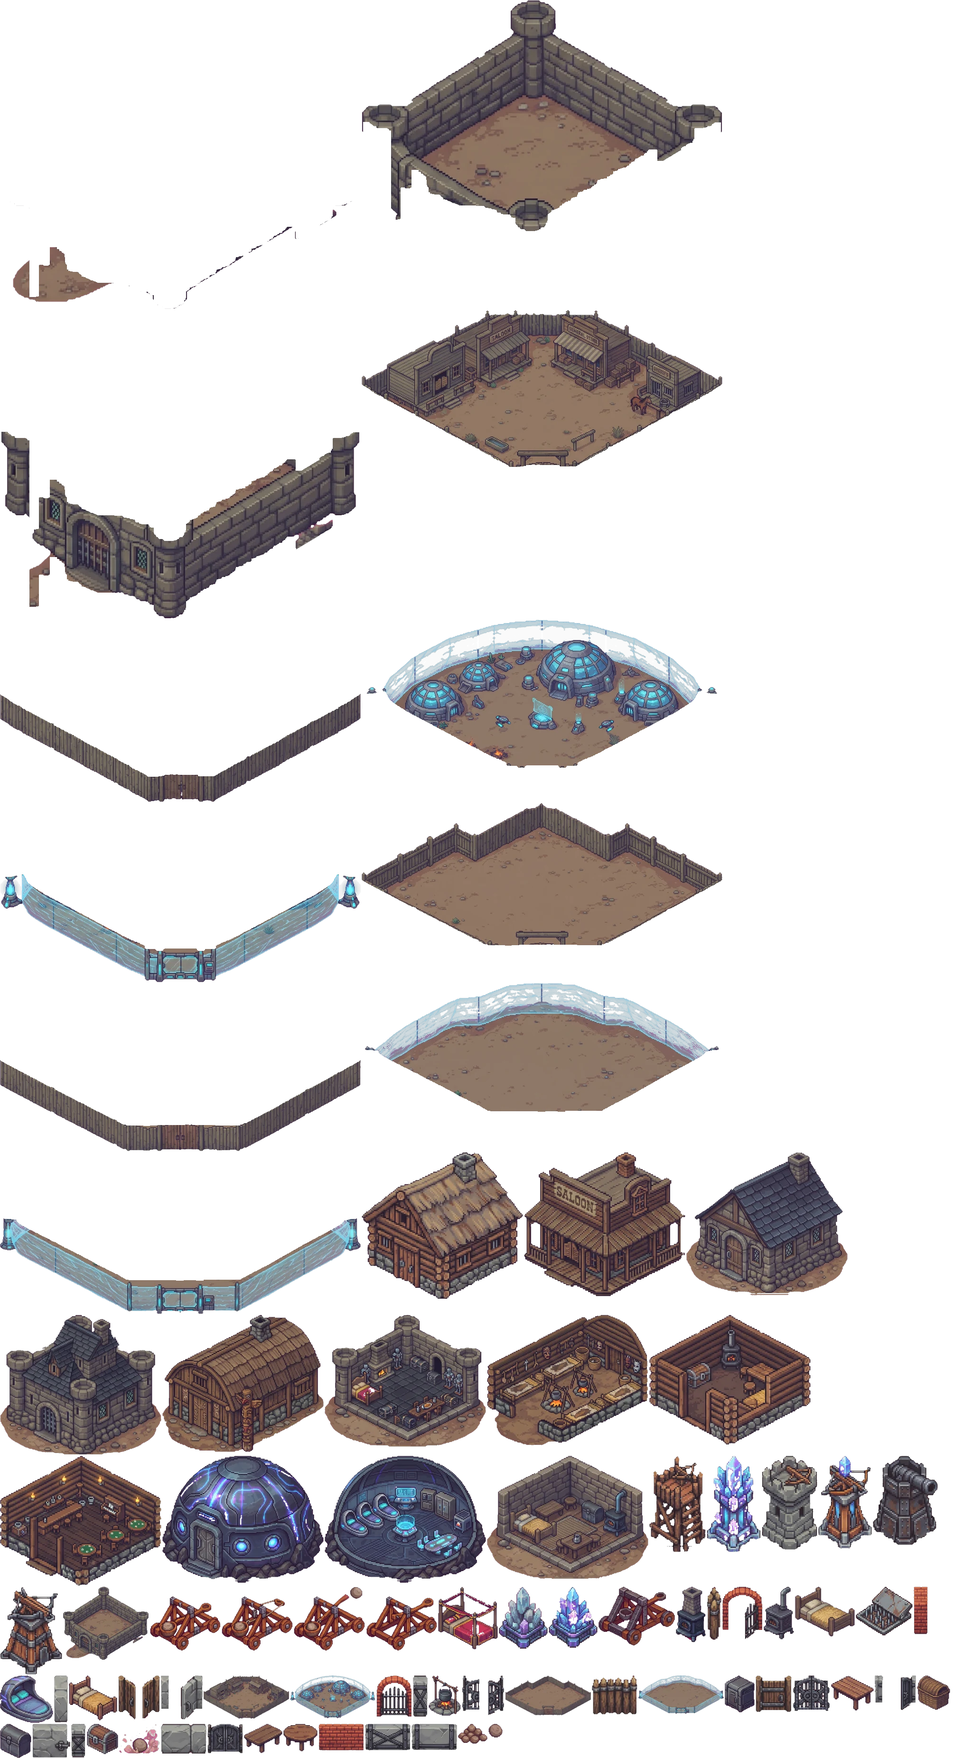
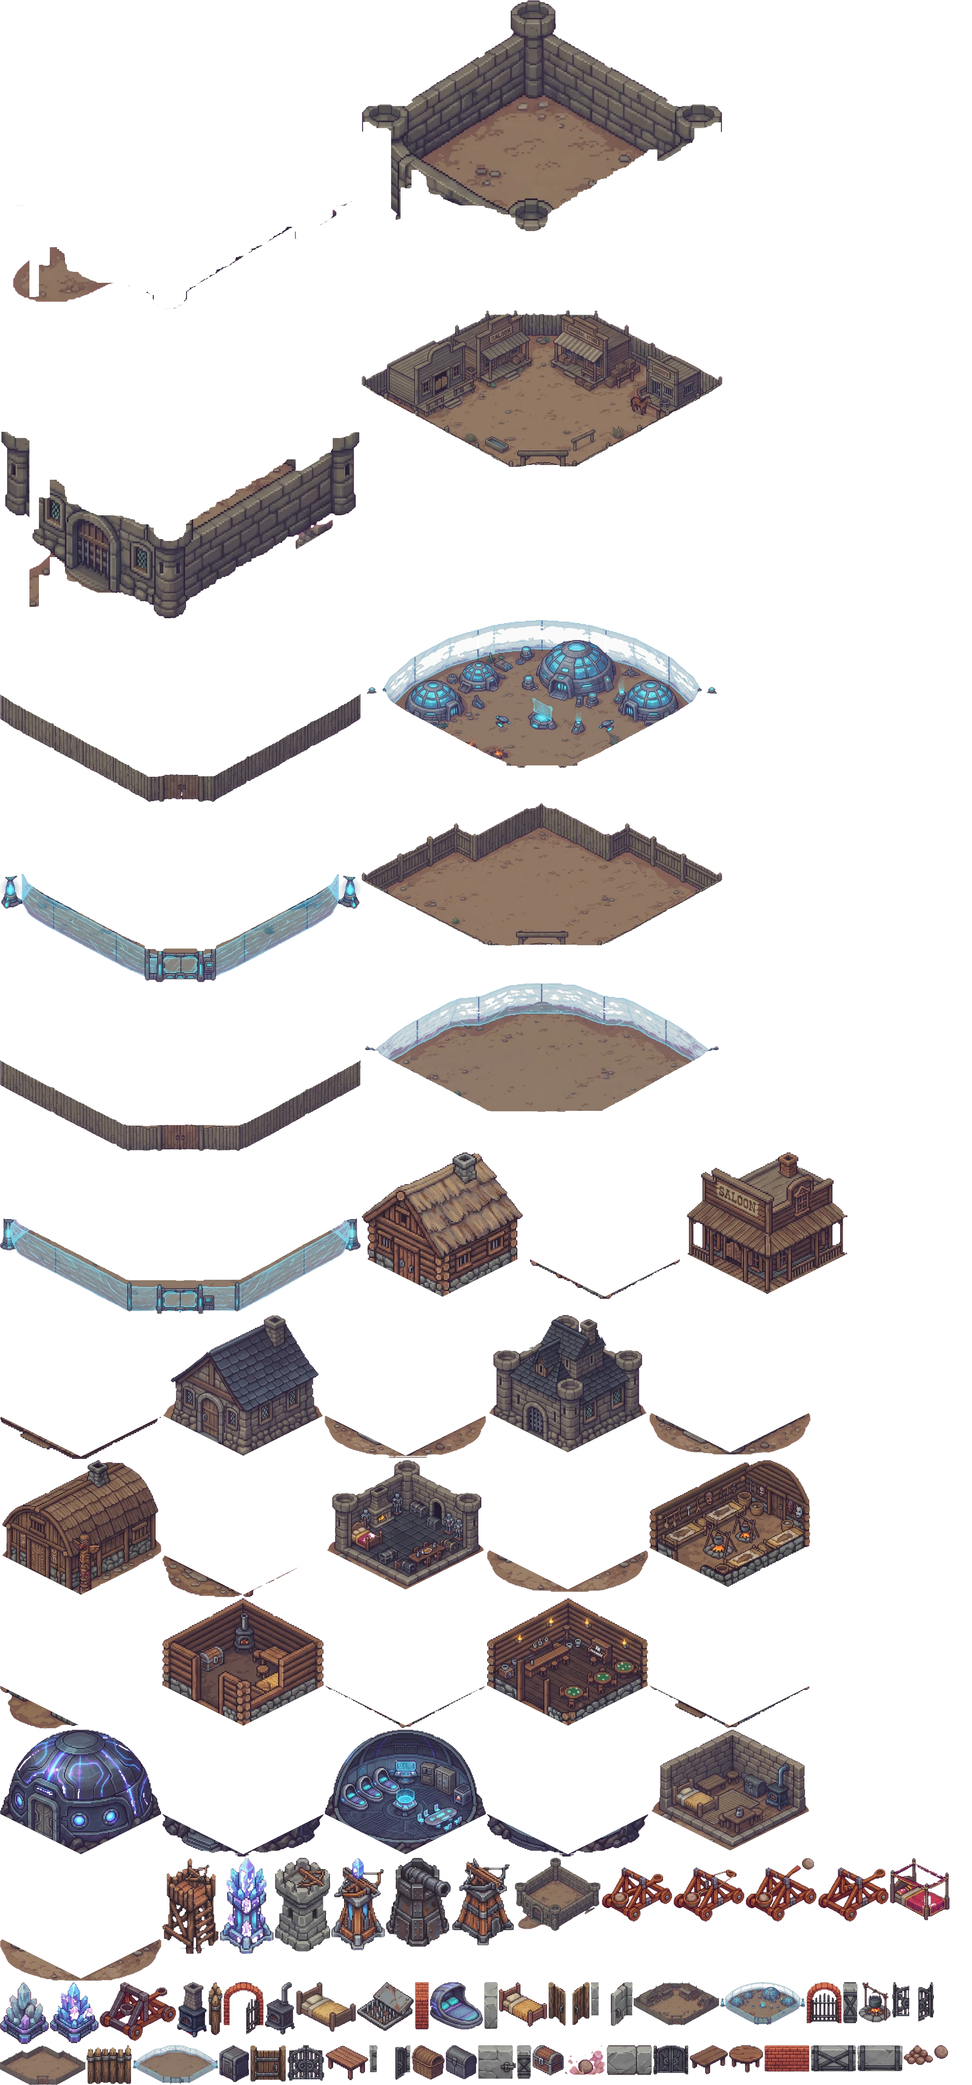
Add files via upload

diff --git a/game.js b/game.js
@@ -565,6 +565,7 @@
   }
   function canStand(px, py, z, r, quem) {
     const pts = [[px - r, py - r], [px + r, py - r], [px - r, py + r], [px + r, py + r]];
+    if (quem === 'jogador' && interior) { for (const [x, y] of pts) if (insideOf(x, y, 'casa') !== interior || shapeHit(interior, x, y, true) === 'solid') return false; return true; }
     for (const [x, y] of pts) if (!walkable(tileAt(Math.floor(x), Math.floor(y), z), z)) return false;
     if (z === 0 && S.builds.length) for (const [x, y] of pts) if (buildBlocks(x, y, quem !== 'jogador')) return false;
     return true;
@@ -653,13 +654,13 @@
     let best = null;
     for (const b of S.builds) {
       const d = BUILDS[b.k];
-      if (d.tipo !== 'casa' && d.tipo !== 'forte') continue;
+      if (d.tipo !== 'forte') continue;   // casas: botão Entrar
       if (shapeHit(b, px, py) !== 'solid' && shapeHit(b, p.x + DIRS[p.dir][0] * 0.45, p.y + DIRS[p.dir][1] * 0.45) !== 'solid') continue;
       if (!best || d.w < BUILDS[best.k].w) best = b;   // casa dentro do forte: vale a casa
     }
     if (!best) for (const b of S.builds) {   // parado na própria porta, empurrando: também vale
       const d = BUILDS[b.k];
-      if (d.tipo !== 'casa' && d.tipo !== 'forte') continue;
+      if (d.tipo !== 'forte') continue;
       const [qx, qy] = doorPoint(b);
       if (Math.hypot(qx - p.x, qy - p.y) < 1.6 && (!best || d.w < BUILDS[best.k].w)) best = b;
     }
@@ -949,7 +950,7 @@
     for (const m of S.mobs) m.aggro = false;
     p.x = S.home.x; p.y = S.home.y; p.z = 0;
     if (!walkable(tileAt(Math.floor(p.x), Math.floor(p.y), 0), 0)) { p.x = SPAWN.x + 0.5; p.y = SPAWN.y + 0.5; }
-    S.hp = HP_MAX; invulnTil = performance.now() + 4000; homing = null;
+    S.hp = HP_MAX; invulnTil = performance.now() + 4000; homing = null; interior = null;
     for (let k = 0; k < 20; k++) waterTick();
     invDirty = true; toast(msg, 'warn', 5500); save();
   }
@@ -1008,7 +1009,7 @@
       if (m.burn > now) { m.hp -= m.burnDps * dt; if (m.hp <= 0) { killMob(m, k); continue; } }
       if (Math.hypot(m.x - p.x, m.y - p.y) > 90) { S.mobs.splice(k, 1); continue; }   // longe demais: some (volta quando chegar perto)
       const dist = Math.hypot(m.x - p.x, m.y - p.y), same = m.z === p.z && S.hp > 0 && now > invulnTil;
-      const inHouse = !!insideOf(p.x, p.y, 'casa');
+      const inHouse = !!interior || !!insideOf(p.x, p.y, 'casa');
       const fromHome = Math.hypot(m.x - m.hx, m.y - m.hy);
       if (!m.aggro && same && !inHouse && dist < def.ve) { m.aggro = true; if (m.kind !== 'bicho') sfx('golpe'); }
       if (m.aggro && (!same || inHouse || fromHome > def.segue || dist > def.segue + 3)) m.aggro = false;
@@ -1027,8 +1028,7 @@
         m.moving = false;
         if (m.atk <= 0) {
           m.atk = def.cad; m.swing = now; hurt(def.dano, m);
-          if (m.kind === 'saqueador') fxAnim(['fx_corte_1', 'fx_corte_2'], (m.x + S.p.x) / 2, (m.y + S.p.y) / 2 - 0.3, m.z, 0.9, 200, Math.atan2(S.p.y - m.y, S.p.x - m.x) - Math.PI / 4);
-          else { fxAnim(['fx_impacto'], S.p.x, S.p.y + 0.2, m.z, 1.4, 380); shake(220, tp * 0.08); }
+          if (m.kind !== 'saqueador') { fxAnim(['fx_impacto'], S.p.x, S.p.y + 0.2, m.z, 1.4, 380); shake(220, tp * 0.08); }
         }
       } else if (L > 0.1) {
         const st = Math.min(L, sp * dt), nx = m.x + dx / L * st, ny = m.y + dy / L * st;
@@ -1047,7 +1047,7 @@
     m.hp -= n; m.flash = now + 120; m.hitT = now; m.aggro = true;
     if (opt.burn) { m.burn = now + 4000; m.burnDps = 4; }
     const hitFx = arma === 'cetro' ? ['fx_magia_hit_0', 'fx_magia_hit_1', 'fx_magia_hit_2'] : arma === 'arco' ? ['fx_lascas'] : ['fx_faisca_0', 'fx_faisca_1', 'fx_faisca_2'];
-    fxAnim(hitFx, m.x, m.y - 0.6, m.z, arma === 'cetro' ? 1.2 : 0.9, 330);
+    if (arma !== 'espada') fxAnim(hitFx, m.x, m.y - 0.6, m.z, arma === 'cetro' ? 1.2 : 0.9, 330);
     if (m.kind !== 'bicho' || arma !== 'cetro') {   // empurrão de meio bloco para longe de você
       const dx = m.x - S.p.x, dy = m.y - S.p.y, L = Math.hypot(dx, dy) || 1, k = m.kind === 'chefe' || m.kind === 'bicho' ? 0.25 : 0.5;
       const nx = m.x + dx / L * k, ny = m.y + dy / L * k;
@@ -1108,8 +1108,6 @@
       if (near) { damageMob(mm, dano, 'espada'); acertou = true; }
     }
     // corte em meia-lua na direção do golpe, na cor do nível
-    const corte = lv === 0 ? ['fx_corte_0', 'fx_corte_1', 'fx_corte_2'] : [['', 'fx_corte_laranja', 'fx_corte_roxo', 'fx_corte_dourado', 'fx_corte_dourado'][lv]];
-    fxAnim(corte, fx, fy - 0.2, S.p.z, (lv >= 3 ? 1.6 : lv >= 2 ? 1.35 : 1.1), 300, DIR_ANG[S.p.dir] - Math.PI / 4, S.p.dir === 2);
     if (lv >= 2) effects.push({ ring: raio, x: fx, y: fy, z: S.p.z, t0: performance.now(), dur: 260, cor: WLV_COR[lv] });
     return acertou || !!m;
   }
@@ -1697,7 +1695,7 @@
       addBuild(c); sfx('construir');
       for (const [jk, ox, oy] of d.junto || []) addBuild({ k: jk, x: c.x + ox, y: c.y + oy });
       toast(`${d.nome}: pronto`, 'gold');
-      if (d.tipo === 'casa') hint('casa', 'Para entrar ou sair, é só andar contra a parede. Para mudar de lugar: Construir.');
+      if (d.tipo === 'casa') hint('casa', 'Chegue perto da porta e toque em Entrar. Para mudar de lugar: Construir.');
     }
     if (!(S.kit[k] > 0)) S.sel = { k: 'muro', m: 0 };
     invDirty = true; save();
@@ -1822,7 +1820,11 @@
     const { x, y, z } = target();
     const npc = npcInFront(x, y);
     if (npc) { actHeld = false; showSheet('sheet-shop', npc); return; }
-    const door = tool !== 'muro' && doorAction();
+    if (tool !== 'muro' && !interior && z === 0) {   // Usar de frente para a casa: entra
+      const hb = houseNear();
+      if (hb && shapeHit(hb, x + 0.5, y + 0.5)) { actHeld = false; enterHouse(hb); return; }
+    }
+    const door = tool !== 'muro' && !interior && doorAction();
     if (door) { actHeld = false; door(); return; }
     const chest = tool !== 'muro' && campChest(x, y);
     if (chest) {
@@ -1975,6 +1977,7 @@
   function layerName(z) { return z === 0 ? 'Superfície' : `Camada ${z}${z >= 4 ? ' · mina profunda' : ''}`; }
 
   function upDown() {
+    if (interior) { toast('Saia da casa para cavar', 'warn'); return; }
     const p = S.p, x = Math.floor(p.x), y = Math.floor(p.y), z = p.z;
     if (z > 0 && tileAt(x, y, z - 1) === T.HOLE) {
       p.z--; centerPlayer(); toast(layerName(p.z)); return;
@@ -2034,7 +2037,7 @@
       homing = null;
       let { x, y } = S.home;
       if (!walkable(tileAt(Math.floor(x), Math.floor(y), 0), 0)) { x = SPAWN.x + 0.5; y = SPAWN.y + 0.5; }
-      p.x = x; p.y = y; p.z = 0;
+      p.x = x; p.y = y; p.z = 0; interior = null;
       S.homeReadyAt = S.time + HOME_COOLDOWN;
       for (let k = 0; k < 20; k++) waterTick();   // enche a água em volta da casa
       toast('Em casa', 'leaf');
@@ -2427,7 +2430,7 @@
   })();
   function artRect(name) { return art && ATLAS[name]; }
   // Segundo atlas: muros, torres, casas, fortalezas e móveis (tools/build_structures.py)
-  const ATLAS2 = /*ATLAS2_MAP*/{"forte_muralha_chao":[0,0,760,651],"forte_muralha_fundo":[762,0,760,651],"forte_muralha_frente":[0,653,760,651],"forte_forte_cidade_fundo":[762,653,760,384],"forte_forte_cidade_frente":[0,1306,760,384],"forte_colonia_fundo":[762,1306,760,378],"forte_colonia_frente":[0,1692,760,378],"forte_forte_fundo":[762,1692,760,354],"forte_forte_frente":[0,2072,760,354],"forte_campo_fundo":[762,2072,760,341],"forte_campo_frente":[0,2428,760,341],"casa_cabana":[762,2428,340,310],"casa_cabana_chao":[1104,2428,340,310],"casa_saloon":[1446,2428,340,304],"casa_saloon_chao":[0,2771,340,304],"casa_pedra":[342,2771,340,302],"casa_pedra_chao":[684,2771,340,302],"casa_castelo":[1026,2771,340,295],"casa_castelo_chao":[1368,2771,340,295],"casa_tribal":[0,3077,340,289],"casa_tribal_chao":[342,3077,340,289],"casa_castelo_dentro":[684,3077,340,278],"casa_castelo_dentro_chao":[1026,3077,340,278],"casa_tribal_dentro":[1368,3077,340,275],"casa_tribal_dentro_chao":[0,3368,340,275],"casa_cabana_dentro":[342,3368,340,274],"casa_saloon_dentro":[684,3368,340,274],"casa_saloon_dentro_chao":[1026,3368,340,274],"casa_domo":[1368,3368,340,268],"casa_domo_chao":[0,3645,340,268],"casa_domo_dentro":[342,3645,340,268],"casa_domo_dentro_chao":[684,3645,340,268],"casa_pedra_dentro":[1026,3645,340,260],"casa_pedra_dentro_chao":[1368,3645,340,260],"torre_madeira":[1710,3645,119,203],"torre_cristal":[1831,3645,114,203],"torre_pedra":[0,3915,117,198],"torre_balista_cristal":[119,3915,113,196],"torre_canhao":[234,3915,137,188],"torre_balista":[373,3915,131,185],"forte_muralha":[506,3915,180,154],"catapulta_0":[688,3915,150,135],"catapulta_1":[840,3915,150,135],"catapulta_2":[992,3915,150,135],"catapulta_3":[1144,3915,150,135],"movel_cama_dossel":[1296,3915,126,132],"cristal_claro":[1424,3915,103,131],"cristal_roxo":[1529,3915,103,129],"catapulta_ferro":[1634,3915,161,124],"movel_lareira":[1797,3915,63,117],"muro_madeira_v":[1862,3915,31,112],"muro_tijolo_aberto":[1895,3915,85,111],"movel_fogao":[1982,3915,64,111],"movel_cama_casal":[0,4115,126,105],"espinhos":[128,4115,120,103],"muro_tijolo_v":[250,4115,30,100],"movel_capsula":[282,4115,112,100],"muro_pedra_v":[396,4115,29,99],"movel_cama":[427,4115,102,95],"muro_madeira_aberto":[531,4115,88,93],"muro_pedra_aberto":[621,4115,88,93],"forte_forte_cidade":[711,4115,180,91],"forte_colonia":[893,4115,180,90],"muro_tijolo_portao":[1075,4115,75,87],"muro_fortaleza_v":[1152,4115,31,87],"movel_fogueira":[1185,4115,68,85],"muro_fortaleza_aberto":[1255,4115,90,84],"forte_forte":[1347,4115,180,84],"muro_madeira_h":[1529,4115,96,82],"forte_campo":[1627,4115,180,81],"movel_cofre":[1809,4115,63,78],"muro_madeira_portao":[1874,4115,76,77],"muro_fortaleza_portao":[1952,4115,79,75],"movel_mesa":[0,4222,90,74],"muro_ferro_aberto":[92,4222,87,73],"movel_cesto":[181,4222,70,73],"movel_bau_ferro":[253,4222,66,72],"muro_pedra_portao":[321,4222,80,71],"muro_ferro_v":[403,4222,31,71],"movel_bau":[436,4222,66,64],"catapulta_impacto":[504,4222,86,63],"muro_pedra_h":[592,4222,96,63],"muro_ferro_portao":[690,4222,75,62],"movel_banco":[767,4222,81,62],"movel_mesa_redonda":[850,4222,72,58],"muro_tijolo_h":[924,4222,96,56],"muro_fortaleza_h":[1022,4222,96,56],"muro_ferro_h":[1120,4222,96,55],"catapulta_pilha":[1218,4222,62,42],"catapulta_pedra":[1282,4222,30,29]}/*FIM_ATLAS2*/;
+  const ATLAS2 = /*ATLAS2_MAP*/{"forte_muralha_chao":[0,0,760,651],"forte_muralha_fundo":[762,0,760,651],"forte_muralha_frente":[0,653,760,651],"forte_forte_cidade_fundo":[762,653,760,384],"forte_forte_cidade_frente":[0,1306,760,384],"forte_colonia_fundo":[762,1306,760,378],"forte_colonia_frente":[0,1692,760,378],"forte_forte_fundo":[762,1692,760,354],"forte_forte_frente":[0,2072,760,354],"forte_campo_fundo":[762,2072,760,341],"forte_campo_frente":[0,2428,760,341],"casa_cabana":[762,2428,340,310],"casa_cabana_chao":[1104,2428,340,310],"casa_saloon":[1446,2428,340,304],"casa_saloon_chao":[0,2771,340,304],"casa_pedra":[342,2771,340,302],"casa_pedra_chao":[684,2771,340,302],"casa_castelo":[1026,2771,340,295],"casa_castelo_chao":[1368,2771,340,295],"casa_tribal":[0,3077,340,289],"casa_tribal_chao":[342,3077,340,289],"casa_castelo_dentro":[684,3077,340,278],"casa_castelo_dentro_chao":[1026,3077,340,278],"casa_tribal_dentro":[1368,3077,340,275],"casa_tribal_dentro_chao":[0,3368,340,275],"casa_cabana_dentro":[342,3368,340,274],"casa_cabana_dentro_chao":[684,3368,340,274],"casa_saloon_dentro":[1026,3368,340,274],"casa_saloon_dentro_chao":[1368,3368,340,274],"casa_domo":[0,3645,340,268],"casa_domo_chao":[342,3645,340,268],"casa_domo_dentro":[684,3645,340,268],"casa_domo_dentro_chao":[1026,3645,340,268],"casa_pedra_dentro":[1368,3645,340,260],"casa_pedra_dentro_chao":[0,3915,340,260],"torre_madeira":[342,3915,119,203],"torre_cristal":[463,3915,114,203],"torre_pedra":[579,3915,117,198],"torre_balista_cristal":[698,3915,113,196],"torre_canhao":[813,3915,137,188],"torre_balista":[952,3915,131,185],"forte_muralha":[1085,3915,180,154],"catapulta_0":[1267,3915,150,135],"catapulta_1":[1419,3915,150,135],"catapulta_2":[1571,3915,150,135],"catapulta_3":[1723,3915,150,135],"movel_cama_dossel":[1875,3915,126,132],"cristal_claro":[0,4177,103,131],"cristal_roxo":[105,4177,103,129],"catapulta_ferro":[210,4177,161,124],"movel_lareira":[373,4177,63,117],"muro_madeira_v":[438,4177,31,112],"muro_tijolo_aberto":[471,4177,85,111],"movel_fogao":[558,4177,64,111],"movel_cama_casal":[624,4177,126,105],"espinhos":[752,4177,120,103],"muro_tijolo_v":[874,4177,30,100],"movel_capsula":[906,4177,112,100],"muro_pedra_v":[1020,4177,29,99],"movel_cama":[1051,4177,102,95],"muro_madeira_aberto":[1155,4177,88,93],"muro_pedra_aberto":[1245,4177,88,93],"forte_forte_cidade":[1335,4177,180,91],"forte_colonia":[1517,4177,180,90],"muro_tijolo_portao":[1699,4177,75,87],"muro_fortaleza_v":[1776,4177,31,87],"movel_fogueira":[1809,4177,68,85],"muro_fortaleza_aberto":[1879,4177,90,84],"forte_forte":[0,4310,180,84],"muro_madeira_h":[182,4310,96,82],"forte_campo":[280,4310,180,81],"movel_cofre":[462,4310,63,78],"muro_madeira_portao":[527,4310,76,77],"muro_fortaleza_portao":[605,4310,79,75],"movel_mesa":[686,4310,90,74],"muro_ferro_aberto":[778,4310,87,73],"movel_cesto":[867,4310,70,73],"movel_bau_ferro":[939,4310,66,72],"muro_pedra_portao":[1007,4310,80,71],"muro_ferro_v":[1089,4310,31,71],"movel_bau":[1122,4310,66,64],"catapulta_impacto":[1190,4310,86,63],"muro_pedra_h":[1278,4310,96,63],"muro_ferro_portao":[1376,4310,75,62],"movel_banco":[1453,4310,81,62],"movel_mesa_redonda":[1536,4310,72,58],"muro_tijolo_h":[1610,4310,96,56],"muro_fortaleza_h":[1708,4310,96,56],"muro_ferro_h":[1806,4310,96,55],"catapulta_pilha":[1904,4310,62,42],"catapulta_pedra":[1968,4310,30,29]}/*FIM_ATLAS2*/;
   let art2 = null;
   (function loadArt2() {
     const img = new Image();
@@ -2653,6 +2656,7 @@
     if (lastBiome && lastBiome !== here && S.p.z === 0) toast(`Entrando: ${here.nome}`, 'leaf');
     lastBiome = here;
     if (openSheet && openSheet.id === 'sheet-admin') drawMinimap();
+    updateDoorBtn();
     const p = S.p;
     const onLadder = p.z > 0 && tileAt(Math.floor(p.x), Math.floor(p.y), p.z - 1) === T.HOLE;
     $('btn-f').textContent = onLadder ? 'Subir' : 'Descer';
@@ -3187,7 +3191,7 @@
       adminMove = null;
       const pos = grassNear(clamp(x, 3, W - 4), clamp(y, 3, H - 4), 0, 10);
       if (!pos) { toast('Não achei chão livre ali', 'warn'); return; }
-      S.p.x = pos[0]; S.p.y = pos[1]; S.p.z = 0; homing = null;
+      S.p.x = pos[0]; S.p.y = pos[1]; S.p.z = 0; homing = null; interior = null;
       for (let k = 0; k < 20; k++) waterTick();
       closeSheet(); toast(`Teletransportado: ${BIOMES[regionOf(S.p.x, S.p.y)].nome}`, 'leaf'); sfx('magia');
       return;
@@ -3764,13 +3768,6 @@
       const rr = ATLAS2[d.tipo === 'forte' ? d.img + '_fundo' : d.img];
       const topY = rr ? b.y + d.h + d.pad - d.w * rr[3] / rr[2] : b.y;
       if (d.tipo === 'casa') {
-        const carpet = d.img + (b === home ? '_dentro' : '') + '_chao';
-        if (ATLAS2[carpet]) ents.push({ y: -1e9, f: () => drawBuild(b, carpet, camX, camY) });   // terra da entrada: tapete no chão
-        if (b === home) {
-          ents.push({ y: y0 - 2, f: () => drawBuild(b, d.img + '_dentro', camX, camY) });
-          backs.push({ b, d, key: y0 - 2 });
-          continue;
-        }
         // jogador atrás da casa: a casa fica meio transparente para ele não sumir
         const a = d.w / 2, ox = Math.abs(p.x - b.x - a);
         const behind = ox < a + 0.3 && p.y < b.y + d.h / 2 + (d.h / 2) * Math.max(0, 1 - ox / a) && p.y > topY + 0.4;
@@ -3780,7 +3777,6 @@
         // muros altos: dentro do forte a frente fica transparente; atrás dele, o fundo
         const a = d.w / 2, ox = Math.abs(p.x - b.x - a);
         const behind = b !== fort && ox < a && p.y < b.y + d.h / 2 - (d.h / 2) * Math.max(0, 1 - ox / a) && p.y > topY + 0.4;
-        if (ATLAS2[d.img + '_chao']) ents.push({ y: -1e9, f: () => drawBuild(b, d.img + '_chao', camX, camY) });   // terra na frente do portão: chão
         ents.push({ y: y0 - 3, f: () => drawBuild(b, d.img + '_fundo', camX, camY, behind ? 0.5 : 1) });
         ents.push({ y: key, f: () => drawBuild(b, d.img + '_frente', camX, camY, b === fort ? 0.42 : 1) });
         fronts.push({ b, d, key });
@@ -3919,7 +3915,88 @@
   let moving = false, walkPhase = 0;
 
   const curCam = [0, 0];
+  // ---- Dentro de casa: cena própria, com o interior ampliado (como descer para o subsolo)
+  let interior = null;
+  function enterHouse(b) {
+    const d = BUILDS[b.k];
+    if (!canEnter(b)) { toast(`${d.nome} trancada: só entra quem o dono convidar`, 'warn'); return; }
+    const [qx, qy] = doorPoint(b), cx = b.x + d.w / 2, cy = b.y + d.h / 2;
+    for (const f of [0.75, 0.6, 0.5, 0.4, 0.3, 0.2, 0]) {   // da porta em direção ao centro, o primeiro lugar livre
+      const nx = qx + (cx - qx) * f, ny = qy + (cy - qy) * f;
+      if (insideOf(nx, ny, 'casa') === b && canStand(nx, ny, 0, 0.3, 'jogador')) {
+        S.p.x = nx; S.p.y = ny; S.p.dir = 1; interior = b; homing = null;
+        sfx('construir'); updateDoorBtn(); return;
+      }
+    }
+    toast('Não há espaço livre dentro da casa', 'warn');
+  }
+  function leaveHouse() {
+    const b = interior; if (!b) return;
+    const d = BUILDS[b.k], [qx, qy] = doorPoint(b), cx = b.x + d.w / 2, cy = b.y + d.h / 2;
+    let ux = qx - cx, uy = qy - cy; const L = Math.hypot(ux, uy) || 1; ux /= L; uy /= L;
+    interior = null;
+    for (const dist of [1.2, 1.6, 2.2, 3, 4]) for (const side of [0, 0.5, -0.5, 1, -1]) {
+      const nx = qx + ux * dist - uy * side, ny = qy + uy * dist + ux * side;
+      if (canStand(nx, ny, 0, 0.3, 'jogador') && !insideOf(nx, ny, 'casa')) { S.p.x = nx; S.p.y = ny; S.p.dir = 0; sfx('construir'); updateDoorBtn(); return; }
+    }
+    S.p.x = S.home.x; S.p.y = S.home.y; updateDoorBtn();
+  }
+  function houseNear() {
+    if (interior || S.p.z !== 0) return null;
+    const tg = target();
+    let best = null, bd = 2.4;
+    for (const b of S.builds) {
+      if (BUILDS[b.k].tipo !== 'casa') continue;
+      const [qx, qy] = doorPoint(b), dd = Math.hypot(qx - S.p.x, qy - S.p.y);
+      const touch = shapeHit(b, tg.x + 0.5, tg.y + 0.5) || shapeHit(b, S.p.x, S.p.y - 0.6);
+      if ((touch || dd < bd) && (!best || dd < bd)) { best = b; bd = Math.min(bd, dd); }
+    }
+    return best;
+  }
+  const doorBtn = document.createElement('button');
+  doorBtn.type = 'button'; doorBtn.className = 'btn btn-gold door-btn'; doorBtn.hidden = true;
+  doorBtn.addEventListener('click', () => { if (interior) leaveHouse(); else { const b = houseNear(); if (b) enterHouse(b); } });
+  document.getElementById('app').append(doorBtn);
+  function updateDoorBtn() {
+    if (!S) return;
+    const b = interior || houseNear();
+    const txt = interior ? `Sair · ${BUILDS[interior.k].nome}` : b ? `Entrar · ${BUILDS[b.k].nome}` : '';
+    doorBtn.hidden = !txt || !!openSheet;
+    if (txt && doorBtn.textContent !== txt) doorBtn.textContent = txt;
+  }
+  function renderInterior(now) {
+    const b = interior, d = BUILDS[b.k], base = tp, W2 = canvas.width, H2 = canvas.height;
+    const r = ATLAS2[d.img + '_dentro'];
+    const hTiles = r ? d.w * r[3] / r[2] : d.h * 1.6;
+    const Z = Math.max(1, Math.min(W2 * 0.86 / (d.w * base), H2 * 0.42 / (hTiles * base)));
+    tp = base * Z;
+    const u = tp / 16, p = S.p;
+    ctx.setTransform(1, 0, 0, 1, 0, 0);
+    ctx.fillStyle = '#0e0a08'; ctx.fillRect(0, 0, W2, H2);
+    const camX = Math.round((b.x + d.w / 2) * tp - W2 / 2);
+    const camY = Math.round((b.y + d.h + d.pad) * tp - hTiles * tp / 2 - H2 * 0.36);
+    // sombra suave em volta do cômodo
+    const g = ctx.createRadialGradient(W2 / 2, H2 * 0.44, tp, W2 / 2, H2 * 0.44, Math.max(W2, H2) * 0.7);
+    g.addColorStop(0, 'rgba(60,40,25,0.35)'); g.addColorStop(1, 'rgba(0,0,0,0)');
+    ctx.fillStyle = g; ctx.fillRect(0, 0, W2, H2);
+    drawBuild(b, d.img + '_dentro', camX, camY);
+    const ents = [];
+    for (const o of S.builds) {   // móveis colocados dentro desta casa
+      const od = BUILDS[o.k];
+      if (o === b || od.tipo === 'casa' || od.tipo === 'forte' || insideOf(o.x + od.w / 2, o.y + od.h / 2, 'casa') !== b) continue;
+      ents.push({ y: (o.y + od.h) * tp - camY, f: () => drawBuild(o, od.img, camX, camY) });
+    }
+    const psx = p.x * tp - camX, psy = p.y * tp - camY;
+    ents.push({ y: psy + 6 * u, f: () => drawPlayer(psx, psy, u, p.dir, moving, walkPhase) });
+    ents.sort((a, c) => a.y - c.y);
+    for (const e of ents) e.f();
+    drawSmoke(camX, camY, now);
+    drawCombatFx(camX, camY, now);
+    drawGhost(camX, camY);
+    tp = base;
+  }
   function render(now) {
+    if (interior) { renderInterior(now); return; }
     const p = S.p, z = p.z, u = tp / 16;
     const W2 = canvas.width, H2 = canvas.height;
     ctx.imageSmoothingEnabled = !!art;
@@ -4150,7 +4227,7 @@
       }
       for (const b of S.builds) {   // "Usar para entrar" perto das paredes
         const d = BUILDS[b.k];
-        if (d.tipo !== 'casa' && d.tipo !== 'forte') continue;
+        if (d.tipo !== 'forte') continue;
         const [qx, qy] = doorPoint(b);
         if (Math.hypot(qx - p.x, qy - p.y) > 2.2) continue;
         const inside = insideOf(p.x, p.y, d.tipo) === b;
@@ -4200,7 +4277,7 @@
       // andando contra a parede de uma casa ou fortaleza: entra (ou sai) sozinho depois de um instante
       if (Math.hypot(p.x - ox, p.y - oy) < Math.hypot(vx, vy) * 0.3 && p.z === 0 && S.builds.length) {
         pushT += dt;
-        if (pushT > 0.22) { pushT = -0.5; const door = doorAction(); if (door) door(); }   // -0.5: espera antes de repetir
+        if (pushT > 0.22 && !interior) { pushT = -0.5; const door = doorAction(); if (door) door(); }   // -0.5: espera antes de repetir
       } else pushT = Math.min(0, pushT + dt);
       walkPhase += dt * 12;
     } else pushT = Math.min(0, pushT + dt);
@@ -4253,6 +4330,7 @@
     placeNpcs();
     homing = null;
     lastBiome = null;
+    interior = S.p.z === 0 ? insideOf(S.p.x, S.p.y, 'casa') : null;
     hits.clear();
     invDirty = true;
     updateHud();

diff --git a/style.css b/style.css
@@ -313,3 +313,6 @@ kbd {
 .hud-left { display: flex; flex-direction: column; gap: 6px; align-items: flex-start; }
 .bless-form { display: inline-flex; flex-wrap: wrap; gap: 4px; align-items: center; }
 .bless-form select { font: inherit; font-size: .85em; padding: 4px; background: #2a2420; color: inherit; border: 1px solid var(--line); border-radius: 6px; }
+.door-btn { white-space: nowrap; position: absolute; left: 50%; transform: translateX(-50%); bottom: calc(150px + env(safe-area-inset-bottom, 0px)); z-index: 5; font-size: 1.05em; padding: 10px 18px; box-shadow: 0 4px 14px rgba(0,0,0,.45); }
+.door-btn[hidden] { display: none; }
+@media (pointer: coarse) { .door-btn { bottom: calc(300px + env(safe-area-inset-bottom, 0px)); } }
